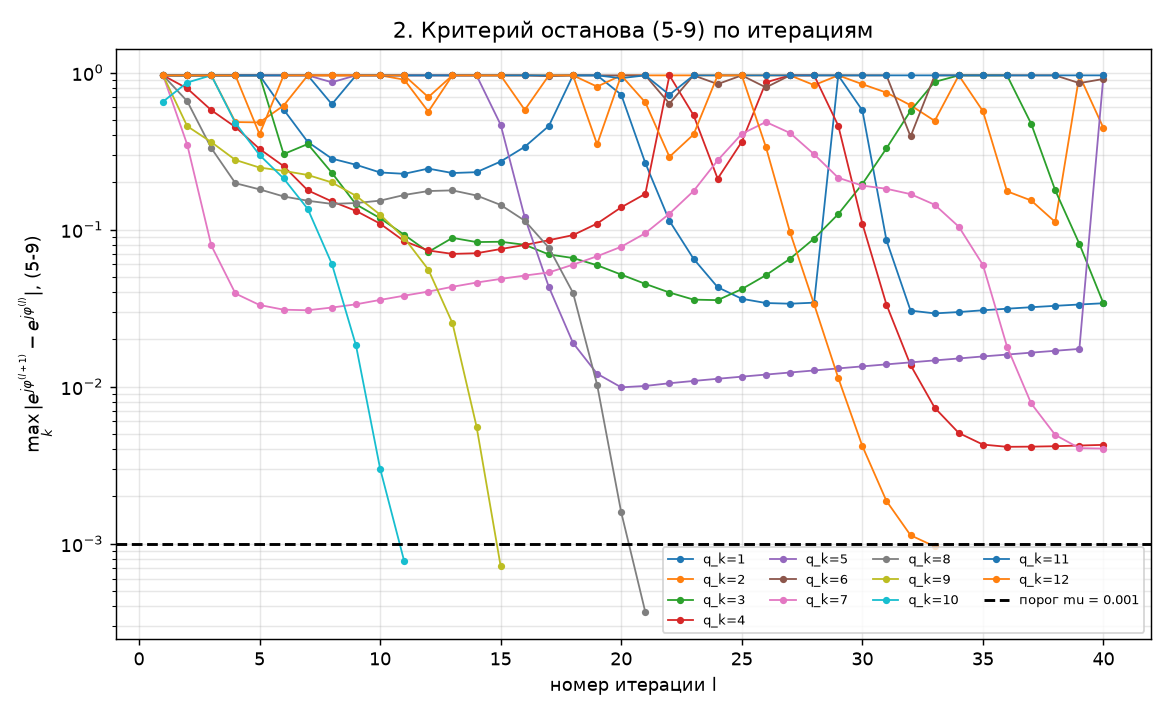
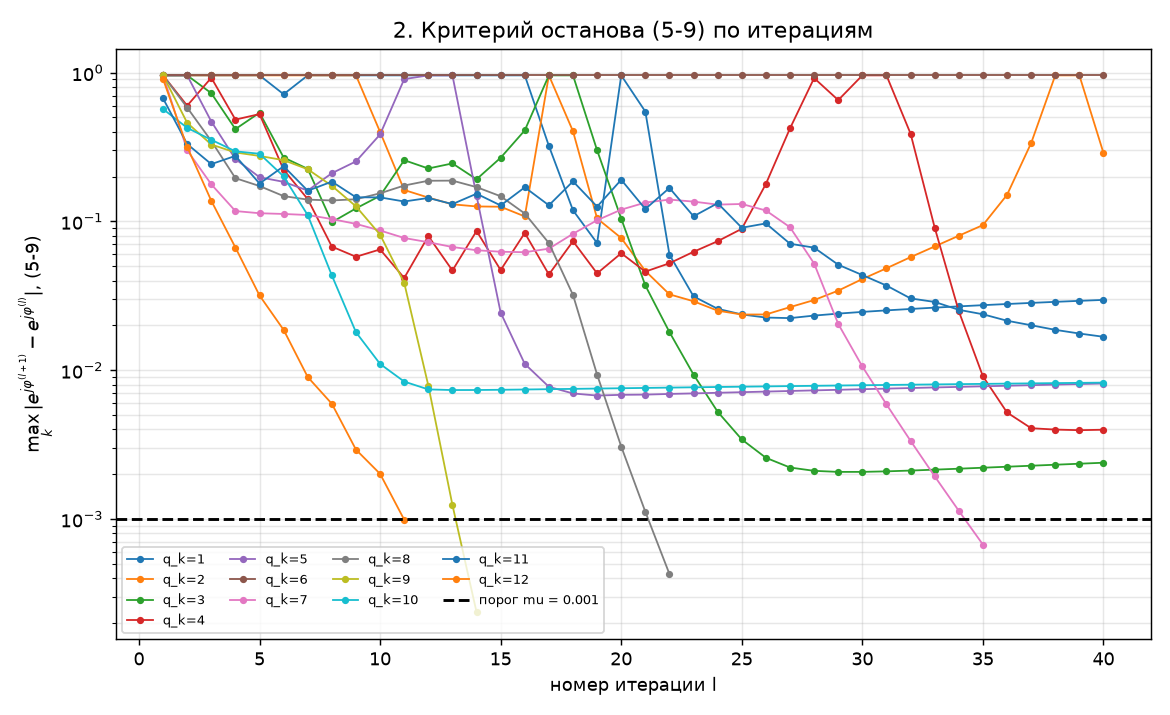
T-186: перехлёст убран, оставлены только нули 0,25
Предложено владельцем и подтвердилось замером на пяти изменчивых сценах:

  перехлёст/нули   L    остаток            контраст
     0,00 / 0,00   43   0.7938 ±0.0905     32.88 ±1.39
     0,00 / 0,25   64   0.6762 ±0.0895     32.27 ±2.60
     0,50 / 0,50  129   0.7145 ±0.1107     32.77 ±1.35

По контрасту все три НЕРАЗЛИЧИМЫ: разброс между сценами больше разницы
между настройками, и утверждать что-либо по нему нельзя.

По остатку фазы лучший — 0,00/0,25: лучше нарезки встык в 4 сценах из 5
(посценно +0.193, -0.098, +0.130, +0.169, +0.194), в среднем на 15 %.

Перехлёст не окупается: после того как ему запретили голосовать в целевой
функции, вред исчез, но и пользы не осталось, а длину преобразования он
утраивает. Убран.

Длина (5-3) теперь 1,5 m_b вместо 3 m_b. Число БПФ на итерацию прежнее —
два, счётчик подтверждает. Приёмка §10 проходит.

Claude-Session: https://claude.ai/code/session_0131t2cRSN4FHWoUZqJmH65Q

diff --git a/lab/mn_mea/stage_a_blocks.py b/lab/mn_mea/stage_a_blocks.py
@@ -51,38 +51,43 @@ class Geometry:
 
 
 #: Решение реализации №6: перехлёст окна блока, в долях его размера m_b.
-#: Расфокусированная цель размазана шире своей плитки, и без перехлёста
-#: хвосты теряются при вырезании.
 #:
-#: ВНИМАНИЕ, история этого числа важнее самого числа, и в ней две ошибки.
+#: ВЗЯТ НОЛЬ — перехлёста нет. История этого числа длинная и поучительная.
 #:
-#: Сначала 0,5 было подобрано на стенде, где вносимая ошибка ОДНА на всю
-#: сцену. Такой стенд цену перехлёста показать не мог в принципе.
+#: Замысел был такой: расфокусированная цель размазана шире своей плитки, и
+#: без перехлёста её хвосты теряются при вырезании. Сначала 0,5 подобрали на
+#: стенде, где вносимая ошибка ОДНА на всю сцену; такой стенд цену перехлёста
+#: показать не мог в принципе. На изменчивом стенде 0,5 оказался вреден, и
+#: причину назвал владелец: энтропия считалась по ВСЕМУ окну, то есть поправка
+#: подгонялась и под соседскую землю, где по (5-27) поправка ДРУГАЯ. Это
+#: исправлено (stage_c_iterate.core_mask): суммы по m идут только по
+#: сердцевине, перехлёст даёт данные и не даёт голоса.
 #:
-#: Потом, на изменчивом стенде, 0,5 дал контраст 31,27 против 34,32 у
-#: книжной нарезки встык, и я снизил долю до 0,25. Это лечило симптом.
-#: Настоящая причина была в другом, и на неё указал владелец: перехлёст
-#: обязан давать ДАННЫЕ и не давать голоса в целевой функции. Энтропия же
-#: считалась по всему окну, то есть поправка подгонялась и под соседскую
-#: землю, где по (5-27) поправка ДРУГАЯ. Исправлено в stage_c_iterate:
-#: суммы по m в (5-5), (5-14) и (5-19) идут только по сердцевине,
-#: см. core_mask.
+#: После исправления вред исчез — но и пользы не осталось. Замер на ПЯТИ
+#: изменчивых сценах:
 #:
-#: После этого вред исчез. На трёх изменчивых сценах 0,5 и 0,0 по контрасту
-#: равны в пределах 0,3 % (33,63 против 33,74), а остаток фазы у 0,5 лучше
-#: на 8 % (0,6766 против 0,7333). Взято 0,5 по остатку; выигрыш скромный и
-#: за большее выдавать его нельзя.
-BLOCK_OVERLAP_FRACTION = 0.5
+#:   перехлёст/нули   L    остаток            контраст
+#:      0,00 / 0,00   43   0,7938 ±0,0905     32,88 ±1,39
+#:      0,00 / 0,25   64   0,6762 ±0,0895     32,27 ±2,60
+#:      0,50 / 0,50  129   0,7145 ±0,1107     32,77 ±1,35
+#:
+#: По контрасту все три НЕРАЗЛИЧИМЫ: разброс между сценами больше разницы
+#: между настройками. По остатку фазы лучший — 0,00 / 0,25, и он же втрое
+#: короче по длине преобразования, чем 0,50 / 0,50. Перехлёст не окупается.
+BLOCK_OVERLAP_FRACTION = 0.0
 
-#: Решение реализации №6, часть вторая: сколько нулей дописывать с каждой
-#: стороны, в долях m_b. Свёртка в (5-3) круговая; без запаса содержимое,
-#: уехавшее за верхний край, выходит снизу и накладывается само на себя.
-#: Доля та же, 0,5, и по той же причине, что перехлёст: после запрета
-#: перехлёсту голосовать в целевой функции вред пропал. Дальше 0,5 не
-#: берём: при 1,0 контраст падает (32,41 против 33,63) — лишние нули
-#: удлиняют доплеровскую ось и дают вектору фазы свободу, которая уходит
-#: на подгонку под спекл. Как объяснение это НЕ проверено, проверен факт.
-BLOCK_ZERO_PAD_FRACTION = 0.5
+#: Решение реализации №6, часть вторая: нули с каждой стороны, в долях m_b.
+#: Свёртка в (5-3) круговая; без запаса содержимое, уехавшее за верхний край,
+#: выходит снизу и накладывается само на себя.
+#:
+#: 0,25 выбрано по остатку фазы: он лучше, чем у нарезки встык, в 4 сценах из
+#: 5 (посценно +0,193, -0,098, +0,130, +0,169, +0,194), в среднем на 15 %.
+#: Контраст этой разницы не видит — она тонет в разбросе между сценами.
+#: Больше не берём: при 0,5 и выше остаток снова растёт.
+#:
+#: Цена: длина (5-3) выросла с m_b до 1,5 m_b, оба БПФ итерации во столько
+#: же раз длиннее. Число БПФ на итерацию прежнее — два.
+BLOCK_ZERO_PAD_FRACTION = 0.25
 
 
 @dataclass(frozen=True)

diff --git a/lab/mn_mea/out/report.md b/lab/mn_mea/out/report.md
@@ -63,22 +63,22 @@
 * этап A: полуразмеры блока x_p = 10.03 м, y_p = 43.88 м; в отсчётах (5-22)/(5-23) m_p = 50.1, n_p = 73.1
 * этап A: (5-24)/(5-25)/(5-21) M_k = **6**, N_k = **2**, q = **12**
 * этап B: D_x = -5.2323e-07, D_y = 1.0193e-05
-* сошлось блоков: **4 из 12**; остаточное СКО по блокам: среднее 0.5160 рад, худшее 1.3933 рад
+* сошлось блоков: **4 из 12**; остаточное СКО по блокам: среднее 0.3854 рад, худшее 0.7365 рад
 
 | q_k | m_k | n_k | размер | eta (5-29) | итераций | сошлось | S до | S после | остаток, рад |
 |---:|---:|---:|---|---:|---:|---|---:|---:|---:|
-| 1 | 1 | 1 | 43x48 | -6.114 | 40 | False | 6.1827 | 3.1304 | 0.4354 |
-| 2 | 2 | 1 | 43x48 | -5.634 | 40 | False | 8.8761 | 4.9863 | 1.2619 |
-| 3 | 3 | 1 | 43x48 | -5.154 | 40 | False | 5.4827 | 3.3168 | 0.0842 |
-| 4 | 4 | 1 | 43x48 | -4.675 | 40 | False | 6.3943 | 2.7493 | 0.2851 |
-| 5 | 5 | 1 | 43x48 | -4.195 | 40 | False | 9.1926 | 3.3098 | 0.4904 |
-| 6 | 6 | 1 | 41x48 | -3.715 | 40 | False | 9.4409 | 5.0150 | 1.3933 |
-| 7 | 1 | 2 | 43x48 | -1.785 | 40 | False | 7.3634 | 2.9020 | 0.3682 |
-| 8 | 2 | 2 | 43x48 | -1.306 | 21 | True | 7.1264 | 2.5718 | 0.1175 |
-| 9 | 3 | 2 | 43x48 | -0.826 | 15 | True | 3.9252 | 2.4388 | 0.0620 |
-| 10 | 4 | 2 | 43x48 | -0.346 | 11 | True | 6.9598 | 2.5575 | 0.0780 |
-| 11 | 5 | 2 | 43x48 | 0.133 | 40 | False | 9.4660 | 4.9469 | 1.0721 |
-| 12 | 6 | 2 | 41x48 | 0.613 | 33 | True | 8.8937 | 3.5527 | 0.5436 |
+| 1 | 1 | 1 | 43x48 | -6.114 | 40 | False | 5.6087 | 2.4251 | 0.4221 |
+| 2 | 2 | 1 | 43x48 | -5.634 | 40 | False | 6.9338 | 5.9443 | 0.7365 |
+| 3 | 3 | 1 | 43x48 | -5.154 | 40 | False | 4.1894 | 2.2798 | 0.3958 |
+| 4 | 4 | 1 | 43x48 | -4.675 | 40 | False | 4.4160 | 2.1530 | 0.3442 |
+| 5 | 5 | 1 | 43x48 | -4.195 | 40 | False | 4.0305 | 2.2082 | 0.3898 |
+| 6 | 6 | 1 | 41x48 | -3.715 | 40 | False | 7.2458 | 7.2575 | 0.5919 |
+| 7 | 1 | 2 | 43x48 | -1.785 | 35 | True | 4.2289 | 2.1130 | 0.2414 |
+| 8 | 2 | 2 | 43x48 | -1.306 | 22 | True | 3.3025 | 1.8712 | 0.1416 |
+| 9 | 3 | 2 | 43x48 | -0.826 | 14 | True | 3.1715 | 1.6727 | 0.0665 |
+| 10 | 4 | 2 | 43x48 | -0.346 | 40 | False | 3.0789 | 1.9514 | 0.1858 |
+| 11 | 5 | 2 | 43x48 | 0.133 | 40 | False | 7.1360 | 7.1281 | 0.7100 |
+| 12 | 6 | 2 | 41x48 | 0.613 | 11 | True | 6.4228 | 6.1541 | 0.3991 |
 
 ## 5а. Что дал каждый способ — сводка
 
@@ -91,7 +91,7 @@
 | + предел шага 1 рад (№2) | 3.5/12 | 0.4837 | 2.18 | 4.4739 | 35.46 | 100.6 |
 | + снятие сдвига (№5) | 3.5/12 | 0.4837 | 0.00 | 4.4739 | 35.46 | 100.6 |
 | + нули 0,5 (№6) | 6.0/12 | 0.4189 | 0.00 | 4.3300 | 36.42 | 100.5 |
-| + перехлёст 0,5 (№6) ← сейчас | 4.0/12 | 0.5538 | 0.06 | 4.6621 | 33.27 | 101.0 |
+| + перехлёст 0,5 (№6) | 4.0/12 | 0.5538 | 0.06 | 4.6621 | 33.27 | 101.0 |
 | сценное ПФ вместо блочного | 4.0/12 | 0.4463 | 0.00 | 4.3577 | 36.02 | 100.5 |
 | идеальная сцена — потолок | — | — | — | 4.1635 | 37.57 | 101.2 |
 
@@ -103,8 +103,8 @@
 
 | способ | сошлось | остаток, рад | контраст | пик |
 |---|---|---:|---:|---:|
-| разбиение по книге | 4/12 | 0.5172 | 34.64 | 101.2 |
-| один блок на всю сцену | 1/1 | 0.7392 | 41.37 | 133.3 |
+| разбиение по книге | 5/12 | 0.5776 | 34.86 | 101.1 |
+| один блок на всю сцену | 1/1 | 0.1316 | 32.38 | 100.7 |
 | идеальная сцена — потолок | — | — | 37.57 | 101.2 |
 
 Разброс истины между блоками — до 1.206 рад СКО: вот это один блок исправить и не может. Здесь разбиение наконец ВЫИГРЫВАЕТ, чего на неизменчивом стенде не было и быть не могло.
@@ -116,7 +116,7 @@
 | способ | сошлось | остаток, рад | контраст | пик |
 |---|---|---:|---:|---:|
 | один блок на всю сцену (q = 1) | да | 0.0303 | 37.60 | 101.2 |
-| разбиение по книге | 4/12 | 0.5160 | 34.35 | 101.0 |
+| разбиение по книге | 4/12 | 0.3854 | 35.40 | 100.3 |
 | идеальная сцена — потолок | — | — | 37.57 | 101.2 |
 
 Один блок упирается в потолок. Это НЕ довод против разбиения: это значит, что чинить разбиению на таком стенде нечего, и всякий вывод о качестве этапов A и B по этим числам будет о чём-то другом. См. README, «Чего в этой работе НЕТ», пункт 1.
@@ -133,8 +133,8 @@
 
 | бэкенд | видеокарта | мс на итерацию | M x N |
 |---|---|---:|---|
-| numpy | нет | 3.16 | 512x128 |
-| numpy32 | нет | 2.36 | 512x128 |
+| numpy | нет | 3.75 | 512x128 |
+| numpy32 | нет | 2.73 | 512x128 |
 
 ## 7. Стоимость итерации: счётчиком, а не утверждением (§10.6, §10.7)
 
@@ -171,14 +171,14 @@
 
 | предел шага, рад | сошлось блоков | итераций (ср.) | остаток (ср.), рад | критерий = 2, раз |
 |---:|---|---:|---:|---:|
-| pi (прежнее, НЕВЕРНОЕ) | 12/12 | 12.4 | 0.0823 | 0 |
-| 1.5 | 12/12 | 12.4 | 0.0823 | 0 |
-| 1 ← взято | 12/12 | 12.4 | 0.0823 | 0 |
-| 0.5 | 12/12 | 12.4 | 0.0823 | 0 |
-| 0.3 | 12/12 | 13.9 | 0.0823 | 0 |
-| 0.1 | 12/12 | 21.7 | 0.0823 | 0 |
-| 0.05 | 11/12 | 35.5 | 0.0811 | 0 |
-| 0.02 | 0/12 | 40.0 | 0.2132 | 0 |
+| pi (прежнее, НЕВЕРНОЕ) | 11/12 | 19.4 | 0.2032 | 0 |
+| 1.5 | 11/12 | 19.4 | 0.2032 | 0 |
+| 1 ← взято | 11/12 | 19.4 | 0.2032 | 0 |
+| 0.5 | 11/12 | 19.4 | 0.2032 | 0 |
+| 0.3 | 11/12 | 19.5 | 0.2032 | 0 |
+| 0.1 | 10/12 | 25.4 | 0.2032 | 0 |
+| 0.05 | 8/12 | 35.8 | 0.2029 | 0 |
+| 0.02 | 1/12 | 39.4 | 0.2814 | 0 |
 
 ### Решение №5: снятие сдвига блока перед укладкой
 
@@ -186,8 +186,8 @@
 
 | (5-26) | блоков с целями на своём месте | средний сдвиг | худший | S (среднее) |
 |---|---:|---:|---:|---:|
-| со снятием (рабочая форма) | 70.8 % | 0.54 отсчёта | 2 | 4.1665 |
-| без снятия | 33.3 % | 2.62 отсчёта | 14 | 4.1665 |
+| со снятием (рабочая форма) | 75.0 % | 0.46 отсчёта | 2 | 4.2417 |
+| без снятия | 37.5 % | 1.88 отсчёта | 7 | 4.2417 |
 
 ### Решение №6: окно блока с перехлёстом и нулями
 
@@ -201,10 +201,10 @@
 | 0.00 | 0.50 | 86 | 4.3/12 | 0.5126 | 35.85 | 100.5 |
 | 0.50 | 0.00 | 86 | 3.3/12 | 0.6282 | 33.48 | 101.1 |
 | 0.25 | 0.25 | 86 | 4.0/12 | 0.6173 | 34.23 | 100.9 |
-| 0.50 ← взято | 0.50 | 129 | 3.7/12 | 0.6137 | 33.37 | 101.0 |
+| 0.50 | 0.50 | 129 | 3.7/12 | 0.6137 | 33.37 | 101.0 |
 | 1.00 | 1.00 | 215 | 3.0/12 | 0.6309 | 33.33 | 101.2 |
 
-Цена: длина (5-3) выросла с m_b до 3 m_b, значит и оба азимутальных БПФ итерации во столько же раз длиннее. Число БПФ на итерацию не изменилось — см. раздел 7.
+Цена: длина (5-3) выросла с m_b до 1.5 m_b, значит и оба азимутальных БПФ итерации во столько же раз длиннее. Число БПФ на итерацию не изменилось — см. раздел 7.
 
 ### Решение №3: нормировка ПФ
 
@@ -255,14 +255,14 @@
 
 | (5-29) | eta | max СКО phi(0), рад | нач. расхождение, рад | итераций (ср.) | сошлось блоков |
 |---|---|---:|---:|---:|---|
-| с членом (рабочая форма) | [-6.11, 0.61] | 7.73 | 1.070 | 33.3 | 4/12 |
-| без члена | [-0.72, 0.71] | 0.90 | 0.669 | 28.7 | 6/12 |
+| с членом (рабочая форма) | [-6.11, 0.61] | 7.73 | 1.069 | 33.5 | 4/12 |
+| без члена | [-0.72, 0.71] | 0.90 | 0.669 | 17.8 | 10/12 |
 
 * **длина преобразования (5-3)** — расхождение книги СЕДЬМОЕ, в её собственный список §8 не попавшее. §4.5 и блок-схема §7 называют phi(0) «вектором длины M», где M — размер сцены; §5, открывая этап C, объявляет «далее M, N — размеры блока». Взято второе: длина суммы по k в (5-3) и есть длина преобразования. Чего это стоит:
 
 | способ | длина (5-3) | сошлось | остаток, рад | S (5-6) | контраст | пик | энергии вне блока |
 |---|---|---|---:|---:|---:|---:|---:|
-| блочное ПФ (как в §5) | m_b блока | 4/12 | 0.5160 | 4.5765 | 34.35 | 101.0 | 0.0 % |
+| блочное ПФ (как в §5) | m_b блока | 4/12 | 0.3854 | 4.4769 | 35.40 | 100.3 | 0.0 % |
 | сценное ПФ | M сцены | 3/12 | 0.4081 | 4.4606 | 35.20 | 100.3 | 3.9 % |
 | идеальная сцена | — | — | 0.0000 | 4.1635 | 37.57 | 101.2 | 0.0 % |
 
@@ -277,7 +277,7 @@
 | короткий блок (M=16) | 10 | True | 9.170e-03 |
 | один строб дальности (N=1) | 19 | True | 1.020e-01 |
 | узкий по азимуту (M=8) | 9 | True | 7.804e-03 |
-| обрезанный блок q_k=8: 19 бинов против 26 у номинального (M=201, M_k=8) | 15 | True | 4.611e-02 |
+| обрезанный блок q_k=8: 19 бинов против 26 у номинального (M=201, M_k=8) | 20 | True | 9.072e-01 |
 | обрезанный блок q_k=16: 1 бинов против 4 у номинального (M=61, M_k=16) | 1 | False | 0.000e+00 |
 
 * **§3.7 документа**: §3.7 без поперечного ускорения: M_k=6, N_k=1, q=6; разбиение чисто азимутальное: True, номера блоков по (5-26) [1, 2, 3, 4, 5, 6]
